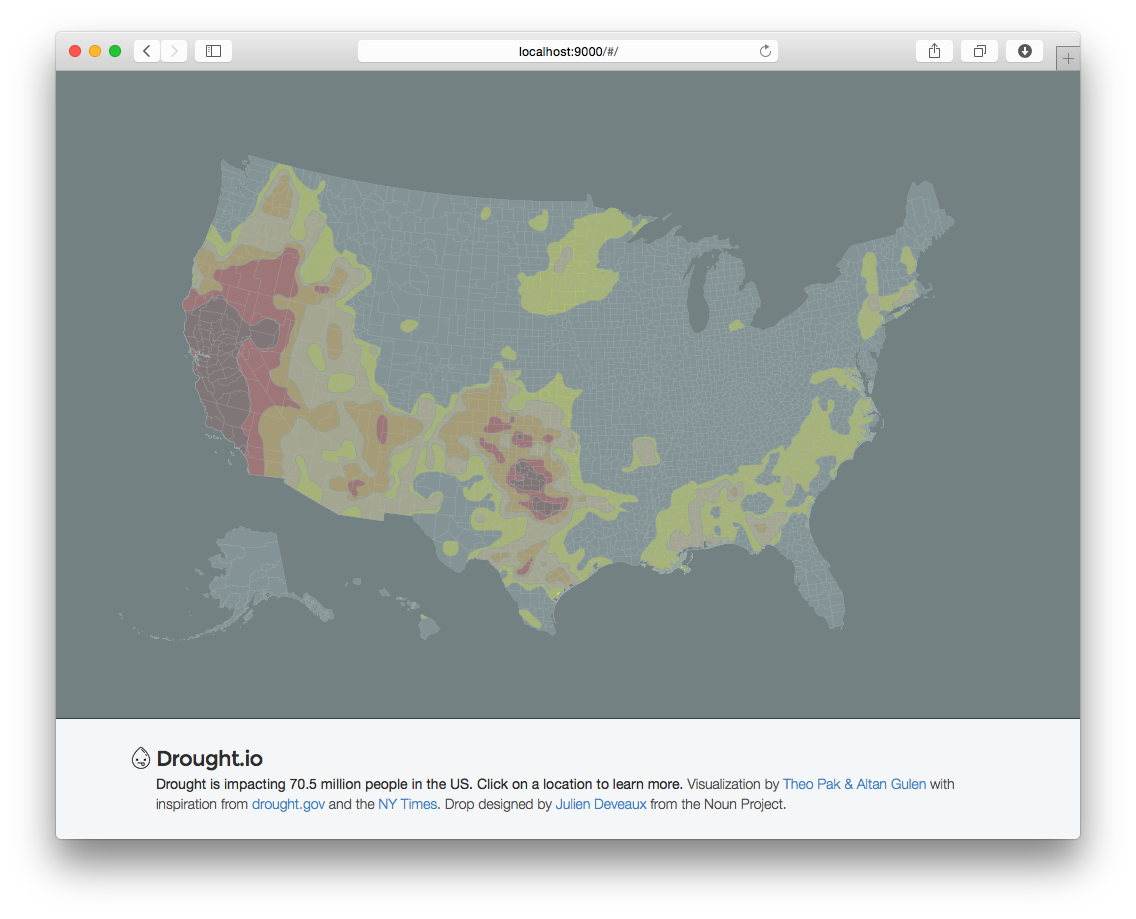
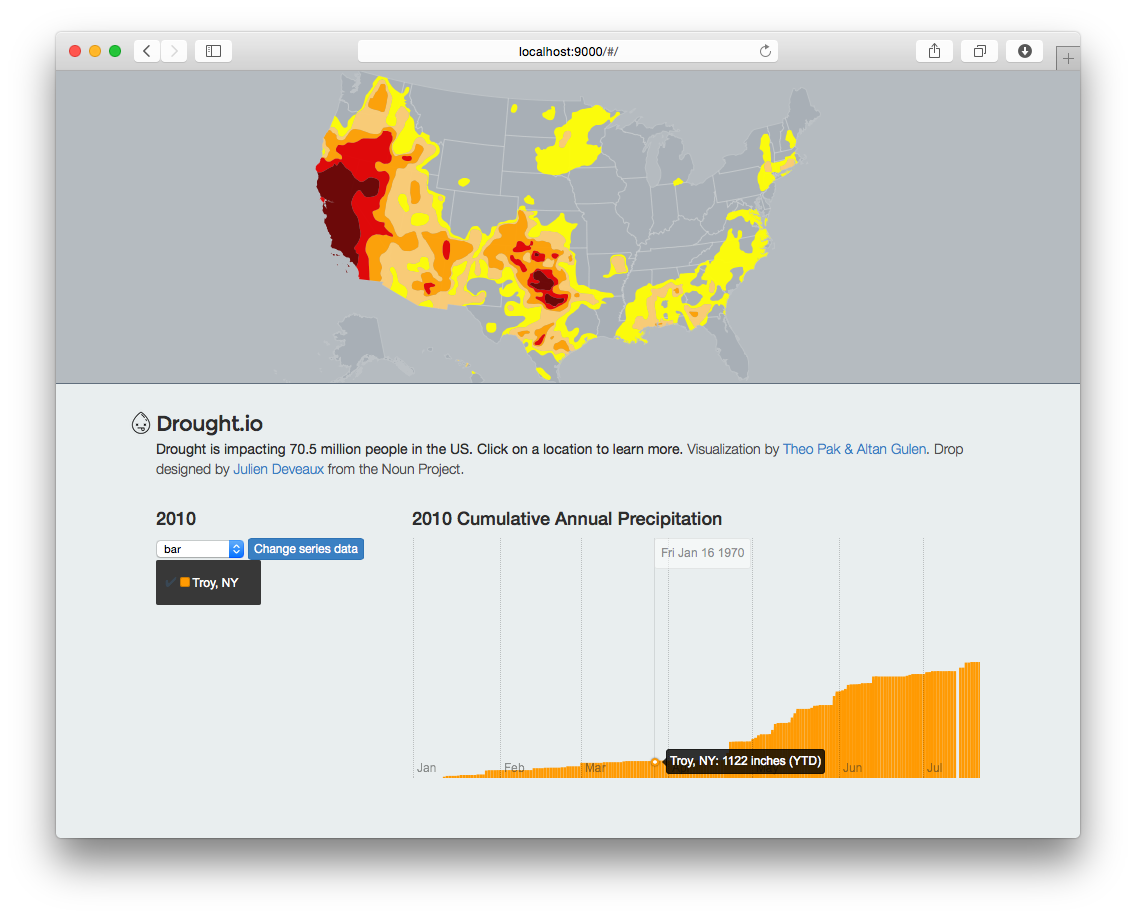
Major changes:
- Constrains size of `<drought-map />`:
    - fits in the top part of the window (or if the window is small, then it takes up all of the window except the banner).
    - initial scale is smaller.
- Constrains size of `<rain-chart />` so that it's never bigger than the window, even if it's too big to be initially in view in the window.
- Updates color scheme and visual styles.
- Changes :hover states on svg and path so that opacity is the only animated change.
- Updates README to contain actually useful information about the project.
- Updates screenshot.

diff --git a/app/scripts/directives/droughtMap.js b/app/scripts/directives/droughtMap.js
@@ -12,34 +12,36 @@ app.directive('droughtMap', ['d3Service', '$q',
       },
       link: function (scope, element, attrs) {
         console.log('inside drought map!!!');
-        d3Service.d3().then(function(d3) {      
-            // var width = 960,
-            //     height = 500;
+        d3Service.d3().then(function(d3) {
 
+            // Set size and position
             var width = window.innerWidth,
-                height = (window.innerHeight - $('#navbar').outerHeight()) * 0.75,
-                centered;
+                minHeight = Math.max(window.innerHeight - $('#navbar').outerHeight(), 240),
+                centered,
+                height = minHeight - $('#details').outerHeight() > 240 ? 
+                  minHeight - $('#details').outerHeight() :
+                  minHeight;
 
             var projection = d3.geo.albersUsa()
-                // .clipExtent(90)
-                // .clipExtent([[1, 1], [width - 1, height - 1]])
-                // .translate([50, svgHeight/2 - 95])
-                .translate([width/2, height/2])
-                // .translate([svgWidth / 2, svgHeight / 2 + 50])
-                // .scale([4000])
-                // .scale([4000])
-                // .rotate([123,0]);
+              .scale(700)
+              .translate([width / 2, height / 2]);
 
             var path = d3.geo.path()
-                .projection(projection);
+              .projection(projection);
 
             var svg = d3.select(element[0]).append('svg')
-                .attr('width', width)
-                .attr('height', height);
+              .attr('width', width)
+              .attr('height', height);
 
             var g = svg.append('g')
               .on('click', stopped, true);
-                // .call(zoom);
+            
+            // Add graticules
+            // var graticule = d3.geo.graticule();
+            // g.append('path')
+            //     .datum(graticule)
+            //     .attr('class', 'graticule')
+            //     .attr('d', path);
 
             // Add background rectangle
             // g.append('rect')
@@ -55,7 +57,7 @@ app.directive('droughtMap', ['d3Service', '$q',
               .scale(1)
               .scaleExtent([1, 8])
               .on('zoom', zoomed);
-            svg
+            g
               .call(zoom) // delete this line to disable free zooming
               .call(zoom.event);
 
@@ -139,12 +141,18 @@ app.directive('droughtMap', ['d3Service', '$q',
                   });
             }
 
+            // Draw the US
             d3.json('/assets/us.json', function(error, topology) {
+              // g.append('path')
+              //   .datum(topojson.merge(topology, topology.objects.states.geometries))
+              //   .attr('class', 'land')
+              //   .attr('d', path);
               g.append('g')
                   .attr('id', 'states')
                 .selectAll('path')
                   .data(topojson.feature(topology, topology.objects.states).features)
                 .enter().append('path')
+                  .attr('class', 'administrative')
                   .attr('d', path)
                   .on('click', clicked)
                   .on('mouseover', function(data) {
@@ -153,11 +161,10 @@ app.directive('droughtMap', ['d3Service', '$q',
                   });
             });
 
-            // Render the zones of drought severity
+            // Draw the zones of drought severity
             // d3.json('/assets/california-drought-topo.json', function(error, topology) {
             d3.json('/assets/USDM_20141111-topo.json', function(error, topology) {
               // Get the first object of data in the file.
-              console.log(topology);
               var first = {};
               for (var key in topology.objects) {
                 first = topology.objects[key];
@@ -172,6 +179,7 @@ app.directive('droughtMap', ['d3Service', '$q',
                 .selectAll('path')
                   .data(topojson.feature(topology, first).features)
                 .enter().append('path')
+                  .attr('class', 'zone')
                   .attr('d', path)
                   .on('click', clicked)
                   .attr('class', function(d) {

diff --git a/app/styles/charts.scss b/app/styles/charts.scss
@@ -1,21 +1,23 @@
-$fg:     #333;
-$bg:     rgba(236, 240, 241, 0.5);
-$color1: rgba( 52,  73,  94, 1.0);
-$color2: rgba( 44,  62,  80, 1.0);
-$color3: rgba(149, 165, 166, 1.0);
-$color4: rgba(127, 140, 141, 1.0);
+$color-bg:        rgba(236, 240, 241, 1.0); // Porcelain
+$color-fg:        #333;                     // Black
+$color-viz-bg:    rgba(189, 195, 199, 1.0); // Silver Sand
+$color-viz-base:  rgba(218, 223, 225, 1.0); // Iron
+$color-viz-line:  rgba(236, 236, 236, 1.0); // White Smoke
+$color-viz-focus: rgba(108, 122, 137, 1.0); // Lynch
 
 
 body {
   padding: 0;
-  background: $bg;
+  background: $color-viz-bg;
+}
+#navbar, #details {
+  background: $color-bg;
 }
 #navbar {
   min-height: 6rem;
   width: 100%;
-  padding: 1.5rem 0 2.5rem;
-  // background: $bg;
-  border-top: 1px solid $color1;
+  padding: 1.5rem 0 2rem;
+  border-top: 1px solid $color-viz-focus;
   overflow: hidden;
   transition: transform 500ms ease-out;
   z-index: 99;
@@ -31,19 +33,21 @@ body {
   p {
     margin: 0;
     font-weight: normal;
-    color: $fg;
+    color: $color-fg;
     small {
       font-size: 1em;
       font-weight: 300;
-      color: lighten($fg, 15);
+      color: lighten($color-fg, 15);
     }
   }
 }
 
 #chart {
-  max-width: 100%;
-  min-height: 1rem;
   margin-bottom: 6rem;
+  overflow: hidden;
+  & > svg {
+    max-width: 100%;
+  }
 }
 
 #map {
@@ -52,11 +56,11 @@ body {
   width: 100%;
   font-size: 0;
   line-height: 100%;
-  background: $color4;
+  background: $color-viz-bg;
   z-index: 1;
   .background {
-    background: $color4;
-    color: $color4;
+    background: $color-viz-bg;
+    color: $color-viz-bg;
   }
   & > svg {
     width: 100%;
@@ -64,44 +68,37 @@ body {
     line-height: 100%;
   }
 }
-path {
-  fill: $color3;
-  stroke: lighten($color3, 5);
-  stroke-width: .5px;
-  transition: opacity 5ms ease-in, color 15ms ease-in;
+path.administrative, path.zone {
+  fill: $color-viz-focus;
+  stroke: $color-viz-line;
+  stroke-width: 1px;
+  opacity: 0;
+  transition: opacity 5ms ease-in;
   &:hover {
-    fill: lighten($color1, 5);
+    opacity: 0.9;
   }
   &.active {
-    fill: $color1;
+    fill: $color-viz-focus;
   }
 }
+path.graticule {
+  fill: none;
+  stroke: darken($color-viz-bg, 5);
+  stroke-width: 1px;
+  stroke-opacity: 0.5;
+}
 #zones {
+  stroke-width: 0.5px;
+  path.severity0 { fill: #FFFF00; }
+  path.severity1 { fill: #FCD37F; }
+  path.severity2 { fill: #FFAA00; }
+  path.severity3 { fill: #E60000; }
+  path.severity4 { fill: #730000; }
   path               { opacity: 0.95; }
   &:hover path       { opacity: 0.75; }
   &:hover path:hover { opacity: 1.00; }
 }
 #states {
-  path               { opacity: 0.75; }
+  path               { opacity: 0.15; }
   path:hover         { opacity: 0.85; }
 }
-
-path {
-  // opacity: 0.75;
-}
-path.severity0 {
-  fill: #FFFF00;
-}
-path.severity1 {
-  fill: #FCD37F;
-}
-path.severity2 {
-  fill: #FFAA00;
-}
-path.severity3 {
-  fill: #E60000;
-}
-path.severity4 {
-  fill: #730000;
-}
-

diff --git a/app/views/main.html b/app/views/main.html
@@ -1,35 +1,35 @@
-<div class="container-fluid">
-  <div id="map" drought-map></div>
-</div>
+<div id="map" drought-map></div>
 
 <div id="navbar">
   <div class="container-fluid">
     <div class="row">
       <div class="col-sm-10 col-sm-push-1">
         <h1 class="brand">Drought.io</h1>
-        <p>Drought is impacting 70.5 million people in the US. Click on a location to learn more. <small>Visualization by <a href="https://github.com/theopak/drought.io/">Theo&nbsp;Pak &amp; Altan&nbsp;Gulen</a> with inspiration from <a href="http://drought.gov" rel="nofollow">drought.gov</a> and the <a href="http://www.nytimes.com/interactive/2014/upshot/mapping-the-spread-of-drought-across-the-us.html" rel="nofollow">NY&nbsp;Times</a>. Drop designed by <a href="http://thenounproject.com/term/drop/48086/">Julien&nbsp;Deveaux</a> from the Noun Project.</small></p>
+        <p>Drought is impacting 70.5 million people in the US. <span class="hidden-sm">Click on a location to learn more.</span> <small>Visualization by <a href="https://github.com/theopak/drought.io/">Theo&nbsp;Pak &amp; Altan&nbsp;Gulen</a>. <span class="hidden-sm">Drop designed by <a href="http://thenounproject.com/term/drop/48086/">Julien&nbsp;Deveaux</a> from the Noun Project.</span></small></p>
       </div>
     </div>
   </div>
 </div>
 
-<div class="container-fluid">
-  <div class="row">
-    <div class="col-md-3 col-md-push-1 col-sm-4 col-sm-push-1 col-xs-12">
-      <h4>{{year}}</h4>
-      <select ng-options="renderer for renderer in renderers" ng-model="renderer"></select>
-      <button class="btn btn-xs btn-primary" ng-click="changeSeriesData(0)">Change series data</button>
-      <div id="legend"></div>
-    </div>
-    <div class="col-md-8 col-md-push-1 col-xs-12">
-      <h4>{{year}} Cumulative Annual Precipitation for {{zip}}</h4>
-      <div id="chart" 
-        rain-chart
-        width="700"
-        height="240"
-        renderer="renderer"
-        legendEl="#legend"
-        series="rainfallSeriesCollection">
+<div id="details">
+  <div class="container-fluid">
+    <div class="row">
+      <div class="col-md-3 col-md-push-1 col-sm-4 col-sm-push-1 col-xs-12">
+        <h4>{{year}}</h4>
+        <select ng-options="renderer for renderer in renderers" ng-model="renderer"></select>
+        <button class="btn btn-xs btn-primary" ng-click="changeSeriesData(0)">Change series data</button>
+        <div id="legend"></div>
+      </div>
+      <div class="col-md-7 col-md-push-1 col-sm-6 col-sm-push-1 col-xs-12">
+        <h4>{{year}} Cumulative Annual Precipitation</h4>
+        <div id="chart" 
+          rain-chart
+          width="700"
+          height="240"
+          renderer="renderer"
+          legendEl="#legend"
+          series="rainfallSeriesCollection">
+        </div>
       </div>
     </div>
   </div>

diff --git a/app/scripts/directives/rainChart.js b/app/scripts/directives/rainChart.js
@@ -32,8 +32,8 @@ app.directive('rainChart', ['$compile',
           // Setup graph with options
           var graph = new Rickshaw.Graph({
             element: element[0],
-            width: attributes.width,
-            height: attributes.height,
+            width: attributes.width < window.innerWidth ? window.innerWidth : attributes.width,
+            height: attributes.height < window.innerHeight ? attributes.height : window.innerHeight,
             series: scope.series,
             renderer: scope.renderer,
             interpolation: 'step-after',

diff --git a/app/scripts/controllers/main.js b/app/scripts/controllers/main.js
@@ -603,7 +603,7 @@ app.controller('MainCtrl', ['$scope', '$http', 'RainfallSeriesProvider',
 
     // Get specified location's monthly normal precipitation data and attach it to the scope.
     var palette = new Rickshaw.Color.Palette({scheme: 'spectrum14'});
-    $scope.appendSeries('ZIP:12180', 2012, palette.color());
+    // $scope.appendSeries('ZIP:12180', 2012, palette.color());
     // RainfallSeriesProvider.get({
     //   startdate: $scope.year + '-01-01',
     //   enddate: $scope.year + '-12-31',

diff --git a/README.md b/README.md
@@ -1,13 +1,25 @@
-# [Drought.io](http://www.drought.io) [![Build Status](https://travis-ci.org/theopak/drought.io.svg?branch=master)](https://travis-ci.org/theopak/drought.io)
+# Drought.io [![Build Status](https://travis-ci.org/theopak/drought.io.svg?branch=master)](https://travis-ci.org/theopak/drought.io)
 
-_"Better than [drought.gov](htttp://www.drought.gov)!"_ by Theo Pak & Altan Gulen for [Prof. Cutler's CSCI-4960 "Interactive Visualization"](http://www.cs.rpi.edu/~cutler/classes/visualization/F14/index.php) class at RPI.
+[Drought.io](http://www.droght.io) is an interactive visualization of drought in the US, the rainfall patterns that lead to it, and the affect it has on agriculture. It was made by Theo Pak & Altan Gulen.
 
 ![screenshot](screenshot.png)
 
-The interactive visualization is designed for general populations in areas indirectly affected by droughts. Surprise! It turns out that everyone is indirectly affected when prolonged droughts affect critical industries like agriculture. Meteorologists, geoscientists, and visualization geeks may also appreciate the demonstration of an approach for visualizing this information in a way that general audiences understand better than current drought visualizations.
 
-What parts of the world are facing droughts, and exactly how big are those areas? How does historical rainfall data indicate a drought, and how can drought forecasts be explained using rainfall forecasts? This visualization should be a graphical layer over other GIS data such as arable lands.
+## Development Notes
 
-We hypothesize that because: (a) a significant decrease in rainfall year over year will result in a drought for the corresponding geographic area; and (b) rainfall can be predicted and visualized in a way that general audiences find easy to understand; then (c) the emergence, continuation, and end of droughts can be predicted and visualized in a way that general audiences find easy to understand.
+- Mapping
+  - [_Let’s Make a Map_, by Mike Bostock](http://bost.ocks.org/mike/map/)
+  - [_Interactive Map with D3.js](http://www.tnoda.com/blog/2013-12-07)
+  - Data Source: http://droughtmonitor.unl.edu/MapsAndData/GISData.aspx
+  - Shapefile-to-TopoJSON Conversion Tool: http://www.mapshaper.org
+- D3.js charts: [_Let’s Make a Bar Chart, Parts 1-3_, by Mike Bostock](http://bost.ocks.org/mike/bar/)
+- Deploying: refer to https://devcenter.heroku.com/articles/getting-started-with-nodejs#prepare-the-app
 
-We will know if the visualization effectively communicates the way that droughts affect people if the user learns something about areas that are currently experiencing a drought (or are at risk to experience a drought in the near future) and about the reasons that such areas affect the user personally.
+
+## References & Inspirations
+
+1. [Prof. Cutler's CSCI-4960 "Interactive Visualization"](http://www.cs.rpi.edu/~cutler/classes/visualization/F14/index.php)
+2. http://www.drought.gov
+3. http://www.nytimes.com/interactive/2012/08/24/us/drought-crops.html
+4. http://www.nytimes.com/interactive/2014/upshot/mapping-the-spread-of-drought-across-the-us.html
+5. http://earth.nullschool.net
